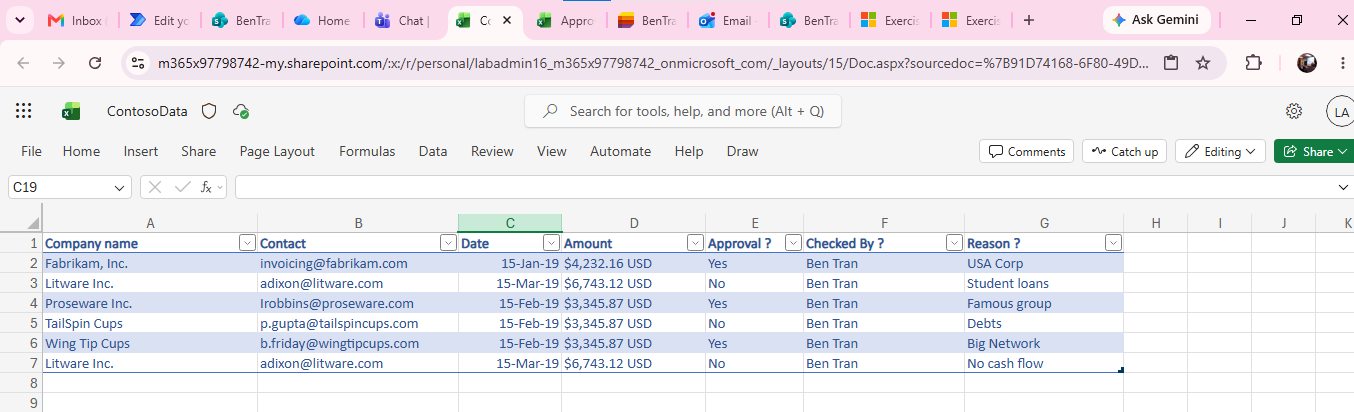
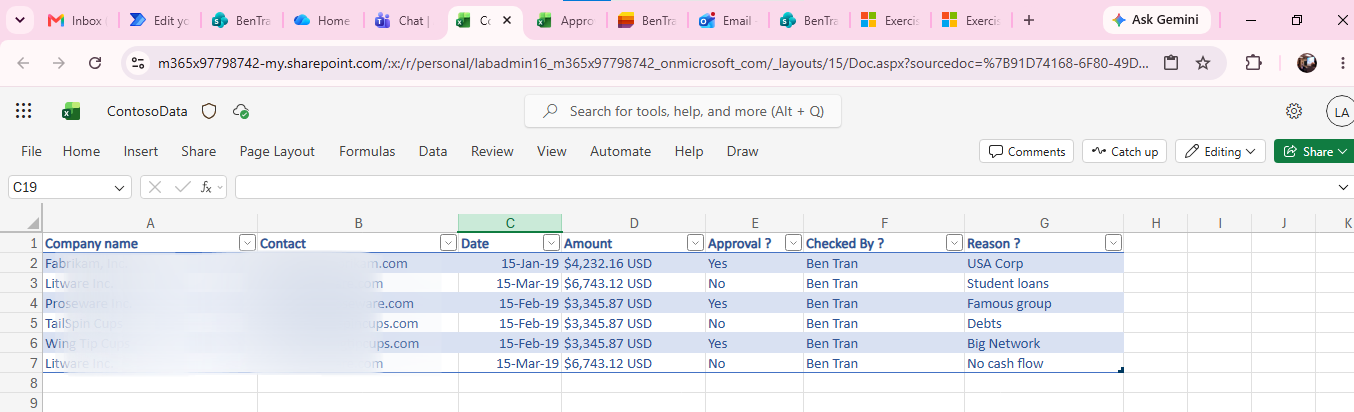
🏆 BenTran CloudFlows ✨ 131126 0916 ✨

Changed region(s): [[0.1551, 0.6117, 0.3102, 0.9029], [0.031, 0.6117, 0.1241, 0.8447], [0.031, 0.8738, 0.0931, 0.9029]]

diff --git a/README_CloudFlows.md b/README_CloudFlows.md
@@ -81,7 +81,7 @@ Additional flow screenshots are available in [`images/`](images/).
 
 ## Repository contents
 
-- [`BTRANBYUNETCONTOSOProcessingInvoice_1_0_0_1_managed`](BTRANBYUNETCONTOSOProcessingInvoice_1_0_0_1_managed.zip) — managed Power Platform solution package containing invoice-processing cloud flows.
+- [`BTRANBYUNETCONTOSOProcessingInvoice_1_0_0_1_managed`](BTRANBYUNETCONTOSOProcessingInvoice_1_0_0_1_managed) — managed Power Platform solution package containing invoice-processing cloud flows.
 - [`images/`](images/) — workflow and Excel output screenshots.
 
 ## Import and demo setup
@@ -102,4 +102,4 @@ Exact setup depends on the target environment and solution version. Importing th
 - AI Builder extraction is model-dependent; validate extracted values against sample documents and handle low-confidence or incomplete results before operational use.
 - Connector references, mailbox addresses, reviewer identities, file paths, SharePoint lists, and Excel tables must be configured for the destination environment.
 - Desktop automation depends on the target machine and application UI, so it requires its own setup and testing.
-- This repository does not include production service-level, security, or financial-control guarantees. Do not use the demo to authorize or issue payments.
+- This repository does not include production service-level, security, or financial-control guarantees. Please do not use the demo to authorize or issue payments.

diff --git a/README_AutomateCloudFlows.md b/README_AutomateCloudFlows.md
@@ -81,7 +81,7 @@ Additional flow screenshots are available in [`images/`](images/).
 
 ## Repository contents
 
-- [`BTRANBYUNETCONTOSOProcessingInvoice_1_0_0_1_managed`](BTRANBYUNETCONTOSOProcessingInvoice_1_0_0_1_managed.zip) — managed Power Platform solution package containing invoice-processing cloud flows.
+- [`BTRANBYUNETCONTOSOProcessingInvoice_1_0_0_1_managed`](BTRANBYUNETCONTOSOProcessingInvoice_1_0_0_1_managed) — managed Power Platform solution package containing invoice-processing cloud flows.
 - [`images/`](images/) — workflow and Excel output screenshots.
 
 ## Import and demo setup
@@ -102,4 +102,4 @@ Exact setup depends on the target environment and solution version. Importing th
 - AI Builder extraction is model-dependent; validate extracted values against sample documents and handle low-confidence or incomplete results before operational use.
 - Connector references, mailbox addresses, reviewer identities, file paths, SharePoint lists, and Excel tables must be configured for the destination environment.
 - Desktop automation depends on the target machine and application UI, so it requires its own setup and testing.
-- This repository does not include production service-level, security, or financial-control guarantees. Do not use the demo to authorize or issue payments.
+- This repository does not include production service-level, security, or financial-control guarantees. Please not use the demo to authorize or issue payments.
